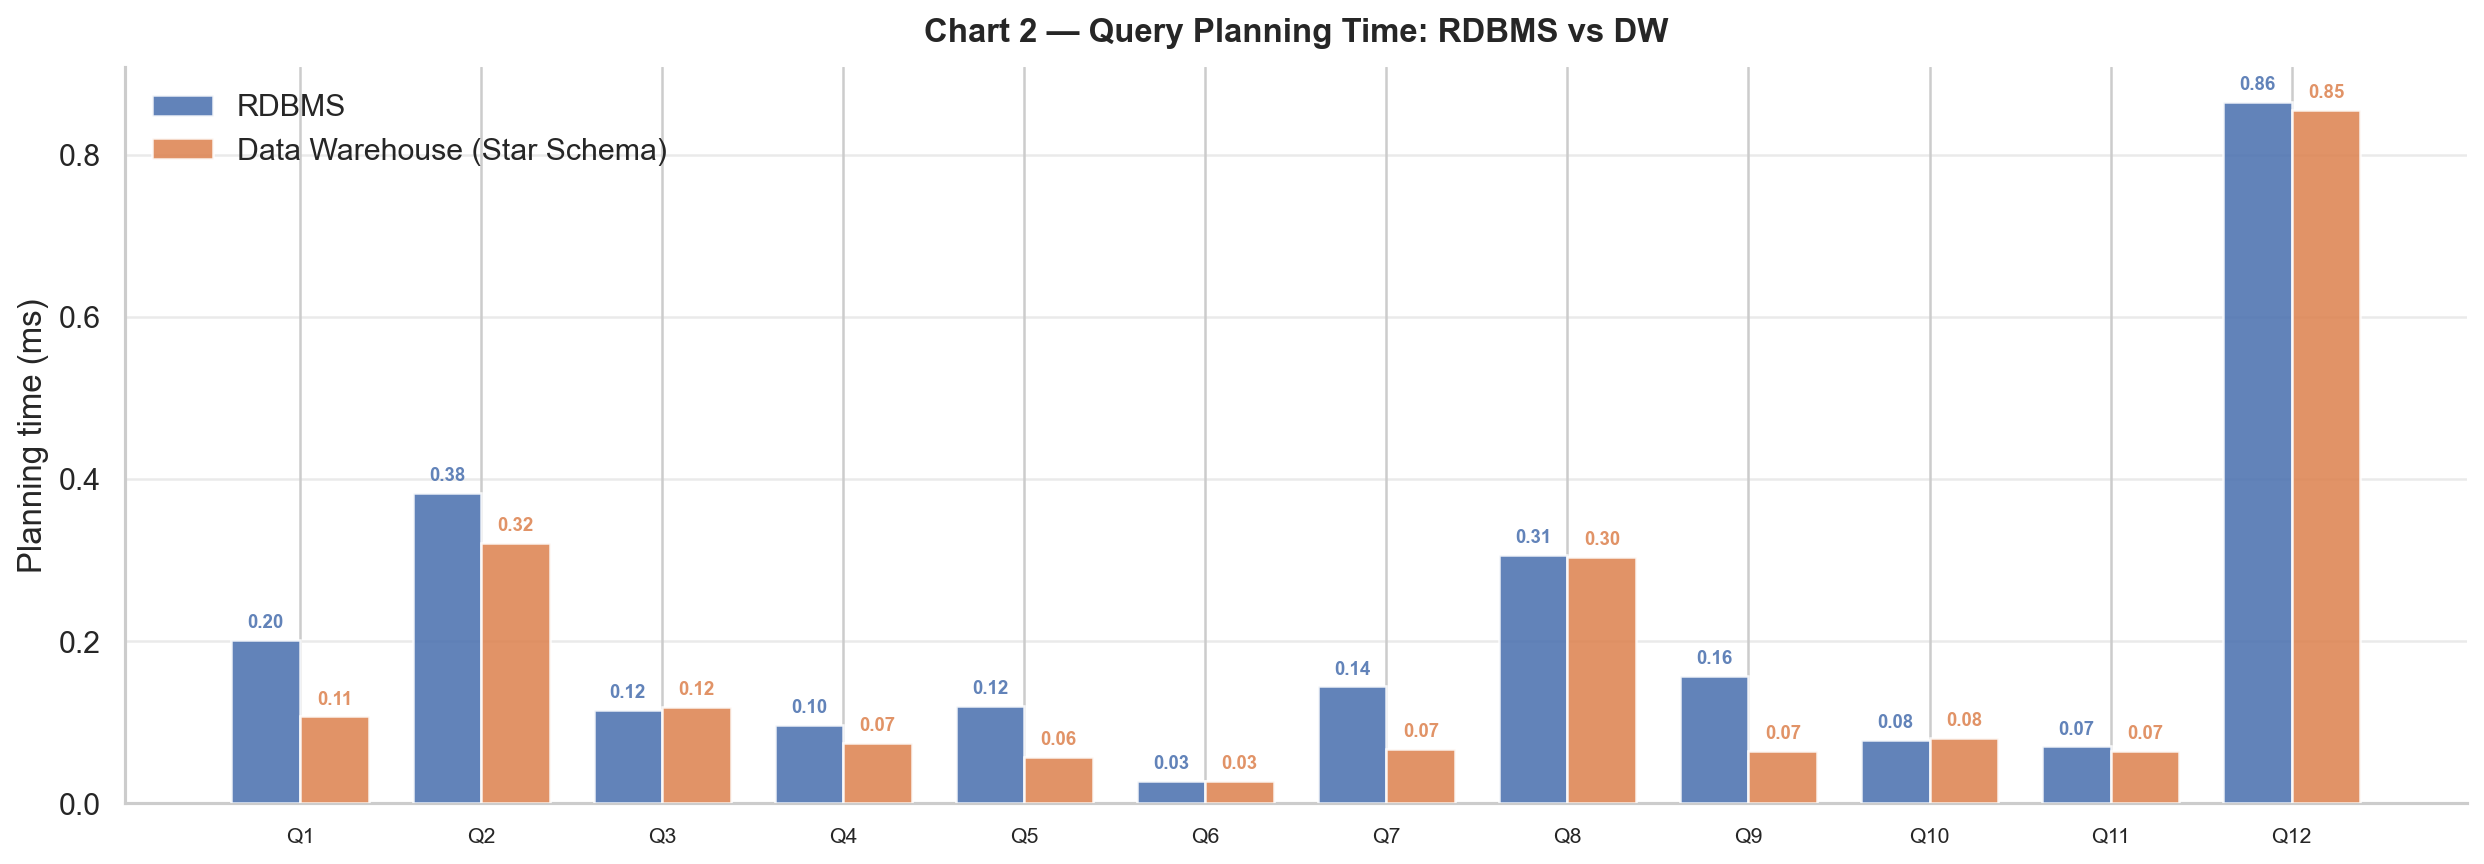
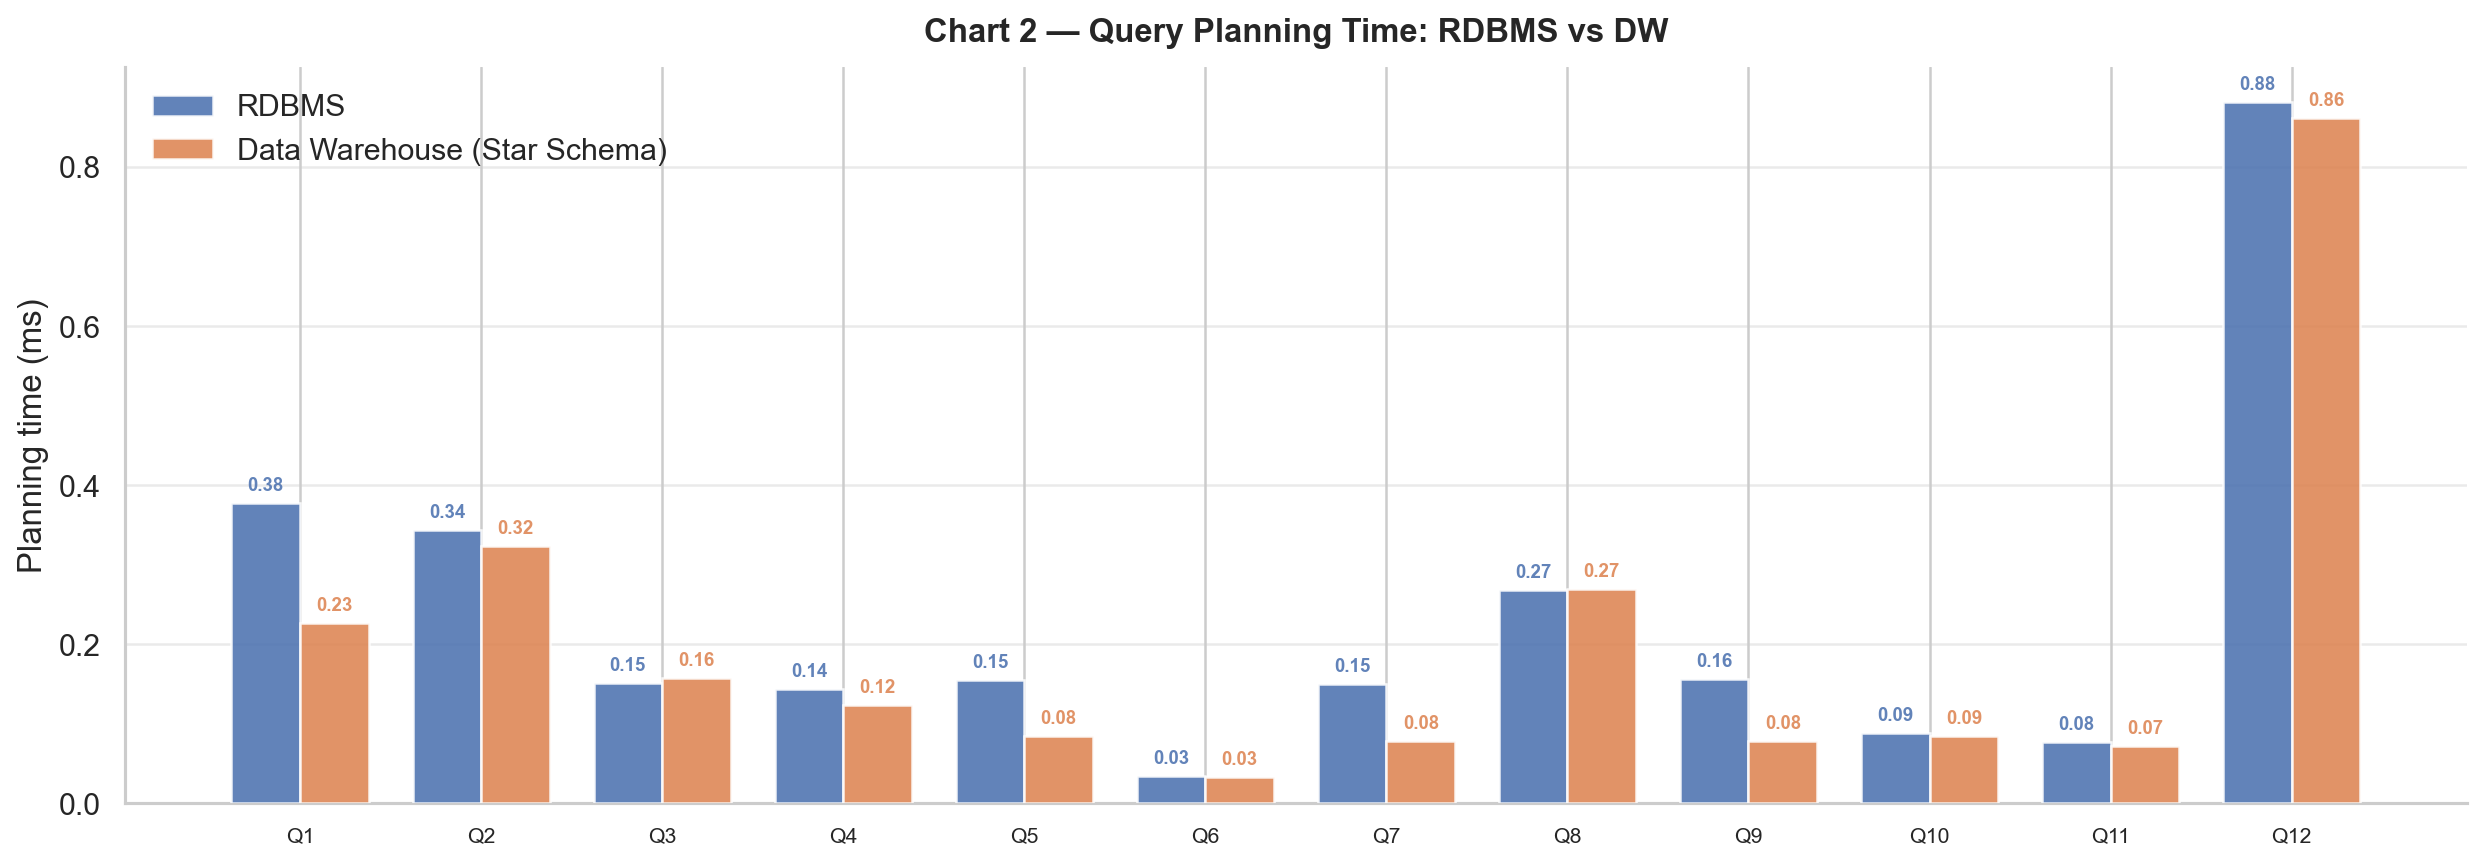
mod

diff --git a/src/benchmark.py b/src/benchmark.py
@@ -93,7 +93,7 @@ def _avg(metric_list: list) -> dict:
 # Benchmark runner
 # ============================================================
 
-def run_benchmark(rdbms_conn, dw_conn, warmup_runs=1, measured_runs=4) -> list:
+def run_benchmark(rdbms_conn, dw_conn, measured_runs=10) -> list:
     results = []
     query_ids = sorted(DW_QUERIES.keys(), key=lambda q: int(q[1:]))
 
@@ -102,13 +102,6 @@ def run_benchmark(rdbms_conn, dw_conn, warmup_runs=1, measured_runs=4) -> list:
 
         rdbms_sql = RDBMS_QUERIES[qid]
         dw_sql    = DW_QUERIES[qid]
-
-        # Warmup (fills buffer cache)
-        for _ in range(warmup_runs):
-            try: run_explain(rdbms_conn, rdbms_sql)
-            except Exception: pass
-            try: run_explain(dw_conn,    dw_sql)
-            except Exception: pass
 
         # Measured runs
         rm_list, dm_list = [], []
@@ -164,9 +157,7 @@ def main():
     parser.add_argument("--dw-db",     default="green_mobility")
     parser.add_argument("--user",      default="postgres")
     parser.add_argument("--password",  default="postgres")
-    parser.add_argument("--warmup",    type=int, default=1,
-                        help="Warmup runs before measuring (default: 1)")
-    parser.add_argument("--runs",      type=int, default=5,
+    parser.add_argument("--runs",      type=int, default=10,
                         help="Measured runs per query (default: 3)")
     args = parser.parse_args()
 
@@ -179,11 +170,10 @@ def main():
     dw_conn.autocommit = True
 
     print(f"\nRunning benchmark  "
-          f"({args.warmup} warmup + {args.runs} measured runs per query)...\n")
+          f"{args.runs} measured runs per query...\n")
 
     try:
         results = run_benchmark(rdbms_conn, dw_conn,
-                                warmup_runs=args.warmup,
                                 measured_runs=args.runs)
         
         src_dir = Path(__file__).resolve().parent

diff --git a/src/RDBMS/REPORT.md b/src/RDBMS/REPORT.md
@@ -80,30 +80,36 @@ All queries were benchmarked using the Python script [`benchmark.py`](../benchma
 - **Execution time** (ms): time the engine spent actually executing the plan;
 - **Total time** (ms): sum of planning and execution time.
 
-Each query was ran **5 times** on both databases. The reported table are the **average** of the three measured runs.
+Each query was ran **10 times** on both databases. The reported table are the **average** of the three measured runs.
 
 ### 4.2 Results
 
 The raw results are stored in [`benchmark_results.csv`](../benchmark_results.csv). The table below summarises total time (planning + execution) for each query:
 
-| ID | Query Label | RDBMS Total (ms) | DW Total (ms) | DW Speedup |
-|---|---|---:|---:|---:|
-| Q1 | EV Sales (Continent × Year) | 3.771 | 3.770 | 1.00x |
-| Q2 | Renewable Electricity vs $CO_2$ | 5.550 | 5.097 | 1.09x |
-| Q3 | Rich vs Poor Countries | 4.003 | 3.828 | 1.05x |
-| Q4 | Top Countries by EV Stock | 9.966 | 2.591 | 3.85x |
-| Q5 | Vehicle Type Analysis | 6.855 | 2.864 | 2.39x |
-| Q6 | Pandemic Impact | 1.393 | 1.769 | 0.79x |
-| Q7 | Infrastructure Growth | 0.771 | 0.701 | 1.10x |
-| Q8 | Green Elec & High EV Demand | 1.128 | 1.036 | 1.09x |
-| Q9 | Continent × Pandemic Period | 4.483 | 2.906 | 1.54x |
-| Q10 | Renewable Share % | 4.075 | 3.254 | 1.25x |
-| Q11 | Countries Improving Most | 2.614 | 2.424 | 1.08x |
-| Q12 | Is EV Adoption Reducing $CO_2$? | 6.214 | 6.678 | 0.93x |
+| ID | Query Label | RDBMS Plan (ms) | RDBMS Exec (ms) | DW Plan (ms) | DW Exec (ms) | RDBMS Total (ms) | DW Total (ms) | Speedup |
+|---|---|---:|---:|---:|---:|---:|---:|---:|
+| Q1 | EV Sales (Continent × Year) | 0.377 | 3.381 | 0.227 | 3.582 | 3.758 | 3.809 | 0.99x |
+| Q2 | Renewable Electricity vs $CO_2$ | 0.344 | 3.208 | 0.323 | 3.104 | 3.552 | 3.427 | 1.04x |
+| Q3 | Rich vs Poor Countries | 0.151 | 2.698 | 0.158 | 2.559 | 2.849 | 2.717 | 1.05x |
+| Q4 | Top Countries by EV Stock | 0.144 | 7.162 | 0.123 | 2.005 | 7.306 | 2.129 | 3.43x |
+| Q5 | Vehicle Type Analysis | 0.155 | 3.460 | 0.084 | 1.879 | 3.615 | 1.964 | 1.84x |
+| Q6 | Pandemic Impact | 0.034 | 1.020 | 0.033 | 1.003 | 1.054 | 1.037 | 1.02x |
+| Q7 | Infrastructure Growth | 0.150 | 0.441 | 0.078 | 0.345 | 0.591 | 0.424 | 1.39x |
+| Q8 | Green Elec & High EV Demand | 0.268 | 0.393 | 0.269 | 0.389 | 0.661 | 0.658 | 1.00x |
+| Q9 | Continent × Pandemic Period | 0.156 | 3.390 | 0.078 | 1.738 | 3.546 | 1.816 | 1.95x |
+| Q10 | Renewable Share % | 0.088 | 2.302 | 0.085 | 2.319 | 2.391 | 2.404 | 0.99x |
+| Q11 | Countries Improving Most | 0.077 | 1.506 | 0.072 | 1.494 | 1.583 | 1.566 | 1.01x |
+| Q12 | Is EV Adoption Reducing $CO_2$? | 0.882 | 3.272 | 0.862 | 3.218 | 4.155 | 4.081 | 1.02x |
 
+Overall, the Data Warehouse (DW) model outperforms the standard RDBMS across most benchmarked scenarios, achieving a 1.35x total execution speedup (35.06 ms total for RDBMS vs. 26.03 ms for DW) and demonstrating faster performance in 10 out of 12 queries.
 
+The performance difference is particularly noticeable in complex analytical queries involving multiple joins and aggregations:
 
-> **Overall: DW was faster on 10 out of 12 queries. The average DW speedup across all queries was approximately 1.60×.**
+- High speedup queries (Q4, Q5, Q9): The Data Warehouse achieves significant gains, peaking at 3.43x for Q4 (Top Countries by EV Stock) and 1.95x for Q9. This improvement is primarily driven by the denormalized star schema, which minimizes costly runtime table joins.
+
+- Moderate speedup queries (Q7): Query Q7 (Infrastructure Growth) shows a 1.39x speedup, benefiting from faster scan times across structured dimensions.
+
+- Comparable queries (Q1–Q3, Q6, Q8, Q10–Q12): Lightweight queries exhibit almost identical performance (~1.00x speedup). In these cases, execution time is dominated by fixed overhead rather than scanning large volumes of data, making both architectures equally fast.
 
 ---
 
@@ -126,8 +132,7 @@ The raw results are stored in [`benchmark_results.csv`](../benchmark_results.csv
 ### 5.3 The RDBMS Win: Q6
 
 **Q6 — Pandemic Impact** is the only query where the RDBMS is clearly faster (**1.39 ms** vs **1.77 ms**). This is a very simple single-table aggregation (`AVG(ev_sales_share) GROUP BY pandemic_period`). The RDBMS stores `pandemic_period` directly in the `Year` lookup table; the DW stores it in `YearDim`. Both schemas require one join, and the slight RDBMS advantage here is likely due to the smaller number of rows in `EVSales` compared to `EVMarket` after filtering, combined with random variation.
--->
----
+
 
 ## 6. SQL Verbosity
 
@@ -148,9 +153,7 @@ Beyond speed, a secondary dimension of comparison is **how much SQL code is requ
 | Q11 | MIN/MAX aggregate | 11 | 10 | 1.1× | ≈ Similar |
 | Q12 | 3-fact JOIN | 21 | 21 | 1.0× | ≈ Similar |
 
-> **The RDBMS required on average 1.6× more SQL lines than the DW. For queries exploiting OLAP operators (Q1, Q4, Q5, Q9), the verbosity gap was significantly larger.**
-
----
+> **The RDBMS required on average 1.6× more SQL lines than the DW. For queries exploiting OLAP operators (Q1, Q4, Q5, Q9), the verbosity gap was significantly larger.** -->
 
 ## 7. Discussion
 
